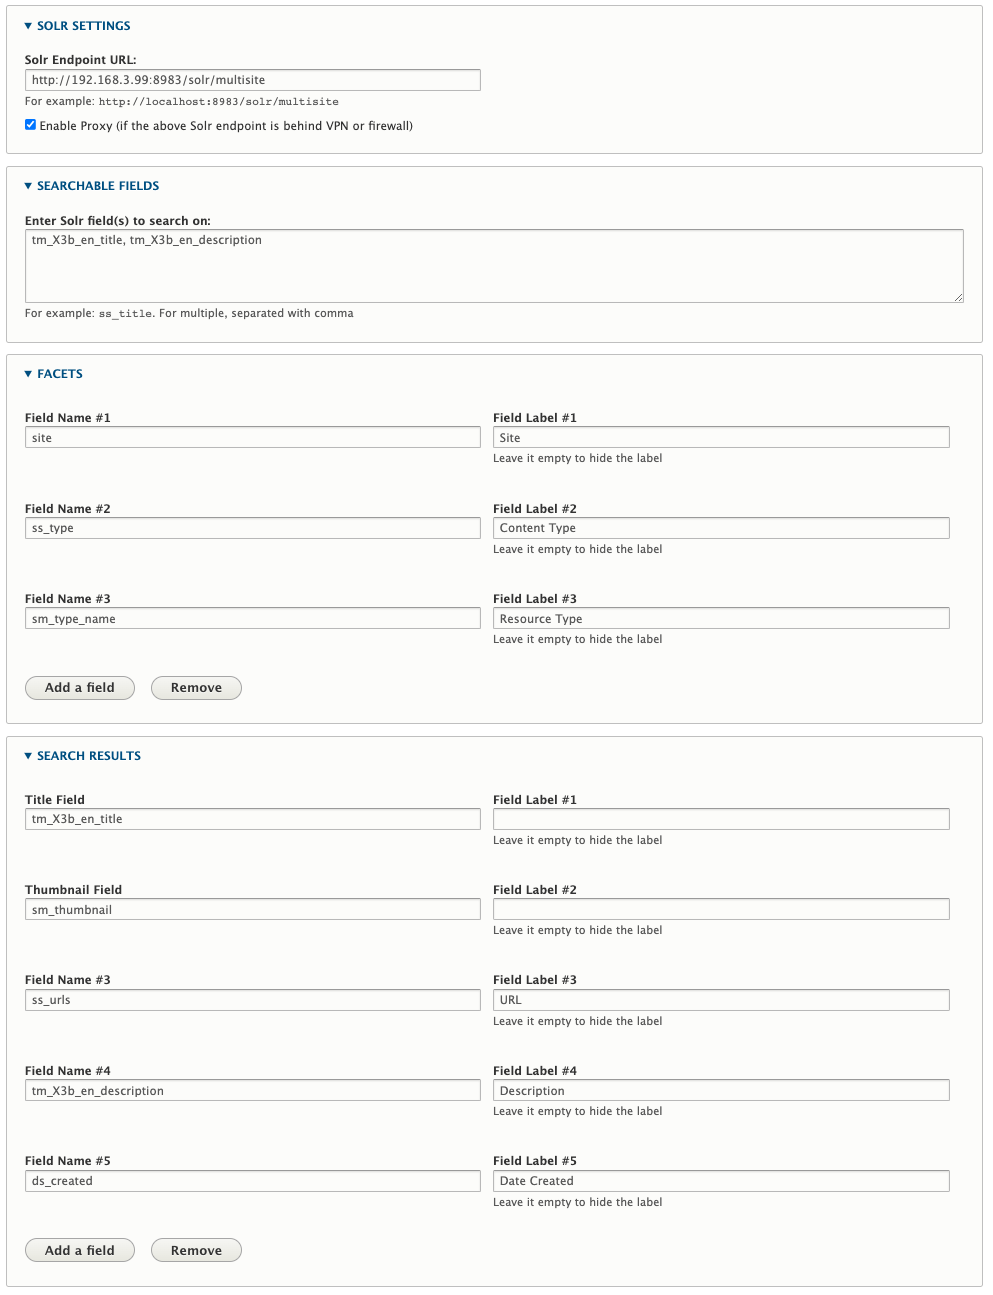
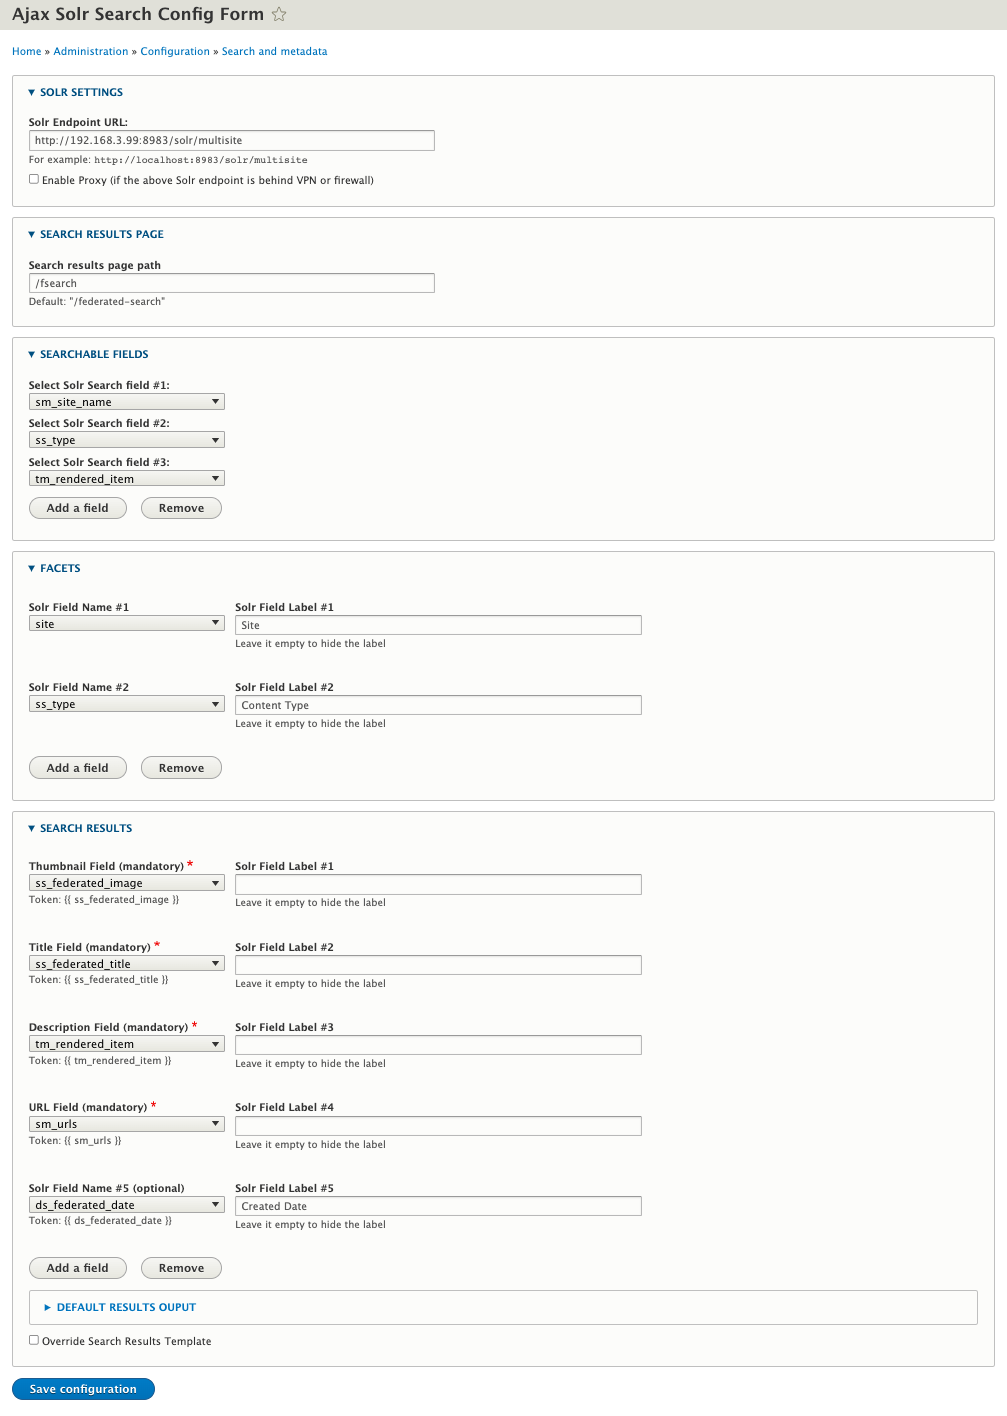
Update documentation with enhancement

diff --git a/README.md b/README.md
@@ -1,7 +1,7 @@
 # Ajax Solr for Drupal
 
 ## Introduction
-Drupal 8/9 module provides a user interface for the Federated Search among multiple Drupal sites which index their content into a shared Solr Core.
+Drupal 8/9 module provides a user interface for the Federated Search for multiple Drupal sites which index their content into a single shared Solr Core.
 
 ## Based project:
 * [Ajax Solr](https://github.com/evolvingweb/ajax-solr) is the JavaScript library which provide web based user interface to Apache Solr. The module integrates the library into Drupal framework.
@@ -15,7 +15,14 @@ At Digital Scholarship Unit - UTSC Library, we have developed this module to sup
 * A shared Solr core which multisite sites indexing their contents into.
 * [Ajax Solr library](https://github.com/digitalutsc/ajax-solr) as dependency library.
 * At `/admin/config/search/search-api/index/YOUR_SOLR_INDEX/fields` in each of exhibit sites, setup with Search API fields with the same `MACHINE NAME` and `TYPE`. For example:
-  * Field `title`, setting the Machine Name is **`title`**, the Type is **`Fulltext`** as same throughout exhibit sites. Therefore, the title will be indexed to the same field name: **`tm_X3b_en_title`**
+
+| Field      | Machine Name | Type | In Solr |
+| ----------- | ----------- | ----------- |----------- |
+| Thumbnail      | thumbnail       | String       | ss_thumbnail       |
+| Title   | title        | Fulltext       | tm_title       |
+| Description   | description        | Fulltext       | tm_description       |
+| URL   | url        | String       | sm_url       |
+| Other optional fields to add...   | ...        | ...       | ...       |
 
 ## Installation and configuration
 * Cloning this module to your module directory of your Drupal site:
@@ -23,7 +30,11 @@ At Digital Scholarship Unit - UTSC Library, we have developed this module to sup
 * Clone the dependency [Ajax Solr library](https://github.com/digitalutsc/ajax-solr) to Libraries directory (ie. drupal/web/libraries):
   * `git clone https://github.com/digitalutsc/ajax-solr.git`
 * Enable the module.
-* Visit `/admin/config/search/ajax_solr`, fill out the config form with Solr fields which are intented to search against (more in the screenshot below).
+* Visit `/admin/config/search/ajax_solr`, setting up with:
+  * The URL for Search Results Page, default is `/federated-search`.
+  * Select Solr field(s) to search against.
+  * Select Solr field(s) for Facets
+  * Select 4 mandatory Solr fields for Search Result rows: Thumbnail, title, description, and URL. Other options field can also be added.
 
 ![Config Screenshot!](docs/ajax_solr_config.png "Config Screenshot")
 
